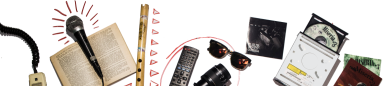
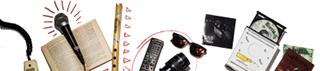
Add files via upload

diff --git a/phone/index.html b/phone/index.html
@@ -18,55 +18,48 @@ if(typeof Muse == "undefined") window.Muse = {}; window.Muse.assets = {"required
   <title>Radio Techotiba</title>
   <!-- CSS -->
   <link rel="stylesheet" type="text/css" href="../css/site_global.css?crc=444006867"/>
-  <link rel="stylesheet" type="text/css" href="css/index.css?crc=4049668825" id="pagesheet"/>
+  <link rel="stylesheet" type="text/css" href="css/master_a-p_g_-maestra.css?crc=90157828"/>
+  <link rel="stylesheet" type="text/css" href="css/index.css?crc=3774851372" id="pagesheet"/>
    </head>
  <body>
 
   <div class="clearfix borderbox" id="page"><!-- group -->
-   <div class="clearfix grpelem" id="ppu387"><!-- column -->
-    <div class="clearfix colelem" id="pu387"><!-- group -->
-     <div class="clip_frame grpelem" id="u387"><!-- image -->
-      <img class="block" id="u387_img" src="../images/face.png?crc=365759845" alt="" data-heightwidthratio="1" data-image-width="41" data-image-height="41"/>
-     </div>
-     <div class="clip_frame grpelem" id="u377"><!-- image -->
-      <img class="block" id="u377_img" src="../images/youtube.png?crc=477466959" alt="" data-heightwidthratio="1" data-image-width="41" data-image-height="41"/>
-     </div>
-     <div class="clip_frame grpelem" id="u397"><!-- image -->
-      <img class="block" id="u397_img" src="../images/instagram.png?crc=35227156" alt="" data-heightwidthratio="0.5540540540540541" data-image-width="74" data-image-height="41"/>
-     </div>
-    </div>
-    <div class="clip_frame colelem" id="u356"><!-- image -->
-     <img class="block" id="u356_img" src="../images/radiotecho%20repro.png?crc=183676934" alt="" data-heightwidthratio="0.68" data-image-width="325" data-image-height="221"/>
-    </div>
-    <div class="clearfix colelem" id="pu235"><!-- group -->
-     <a class="nonblock nontext clip_frame grpelem" id="u235" href="http://www.laboratoriodelruido.co"><!-- image --><img class="block" id="u235_img" src="../images/labmariposa.gif?crc=3921365099" alt="" data-heightwidthratio="0.61" data-image-width="100" data-image-height="61"/></a>
-     <div class="grpelem" id="u237"><!-- custom html -->
-      <audio autoplay="autoplay" controls="controls" id="audioAJDDHR" preload="auto">
+   <div class="clip_frame grpelem" id="u425"><!-- image -->
+    <img class="block" id="u425_img" src="../images/fondo%20movil-crop-u425.png?crc=194496998" alt="" data-heightwidthratio="1.76875" data-image-width="320" data-image-height="566"/>
+   </div>
+   <a class="nonblock nontext clip_frame grpelem" id="u235" href="http://www.laboratoriodelruido.co" target="_blank"><!-- image --><img class="block" id="u235_img" src="../images/labmariposa.gif?crc=3921365099" alt="" data-heightwidthratio="0.6056338028169014" data-image-width="142" data-image-height="86"/></a>
+   <div class="grpelem" id="u237"><!-- custom html -->
+    <audio autoplay="autoplay" controls="controls" id="audioAJDDHR" preload="auto">
 
                 <source src="https://estructuraweb.com.co:9204/live" type="audio/mpeg" />  Su navegador no soporta AUDIO.<br />
 
                 </audio>
 
-     </div>
-     <div class="grpelem" id="u407"><!-- custom html -->
-      <span class="cc_streaminfo" data-type="song" data-username="techotiba">Cargando ...</span>
+   </div>
+   <div class="clip_frame grpelem" id="u356"><!-- image -->
+    <img class="block" id="u356_img" src="../images/radiotecho%20repro.png?crc=108341387" alt="" data-heightwidthratio="0.6789667896678967" data-image-width="271" data-image-height="184"/>
+   </div>
+   <div class="clip_frame grpelem" id="u363"><!-- image -->
+    <img class="block" id="u363_img" src="../images/unaproduccion.png?crc=501905633" alt="" data-heightwidthratio="0.07386363636363637" data-image-width="176" data-image-height="13"/>
+   </div>
+   <div class="clip_frame grpelem" id="u370"><!-- image -->
+    <img class="block" id="u370_img" src="../images/piedepagina%20repro.png?crc=232441695" alt="" data-heightwidthratio="0.221875" data-image-width="320" data-image-height="71"/>
+   </div>
+   <div class="clip_frame grpelem" id="u377"><!-- image -->
+    <img class="block" id="u377_img" src="../images/youtube.png?crc=477466959" alt="" data-heightwidthratio="1" data-image-width="41" data-image-height="41"/>
+   </div>
+   <div class="clip_frame grpelem" id="u387"><!-- image -->
+    <img class="block" id="u387_img" src="../images/face.png?crc=365759845" alt="" data-heightwidthratio="1" data-image-width="41" data-image-height="41"/>
+   </div>
+   <div class="clip_frame grpelem" id="u397"><!-- image -->
+    <img class="block" id="u397_img" src="../images/instagram.png?crc=35227156" alt="" data-heightwidthratio="0.5540540540540541" data-image-width="74" data-image-height="41"/>
+   </div>
+   <div class="grpelem" id="u407"><!-- custom html -->
+    <span class="cc_streaminfo" data-type="song" data-username="techotiba">Cargando ...</span>
 <script language="javascript" type="text/javascript" src="https://estructuraweb.com.co:2199/system/streaminfo.js"></script>
 
-     </div>
-    </div>
-    <div class="clip_frame colelem" id="u363"><!-- image -->
-     <img class="block" id="u363_img" src="../images/unaproduccion.png?crc=501905633" alt="" data-heightwidthratio="0.07386363636363637" data-image-width="176" data-image-height="13"/>
-    </div>
    </div>
-   <div class="verticalspacer" data-offset-top="441" data-content-above-spacer="440" data-content-below-spacer="70" data-sizePolicy="fixed" data-pintopage="page_fixedLeft"></div>
-   <div class="clearfix grpelem" id="pu346"><!-- group -->
-    <div class="clip_frame grpelem" id="u346"><!-- image -->
-     <img class="block" id="u346_img" src="../images/fondo%20movil-crop-u346.png?crc=498264219" alt="" data-heightwidthratio="1.3412073490813647" data-image-width="381" data-image-height="511"/>
-    </div>
-    <div class="clip_frame grpelem" id="u370"><!-- image -->
-     <img class="block" id="u370_img" src="../images/piedepagina%20repro.png?crc=4186722188" alt="" data-heightwidthratio="0.22105263157894736" data-image-width="380" data-image-height="84"/>
-    </div>
-   </div>
+   <div class="verticalspacer" data-offset-top="565" data-content-above-spacer="566" data-content-below-spacer="70" data-sizePolicy="fixed" data-pintopage="page_fixedLeft"></div>
   </div>
   <!-- Other scripts -->
   <script type="text/javascript">

diff --git a/phone/css/index.css b/phone/css/index.css
@@ -1,1 +1,1 @@
-.version.index{color:#0000F1;background-color:#610AD9;}#page{z-index:1;min-height:499px;background-image:none;border-width:0px;border-color:#000000;background-color:transparent;padding-bottom:1px;width:100%;max-width:380px;}#ppu387{z-index:0;padding-bottom:0px;margin-right:-10000px;margin-top:14px;width:140%;margin-left:5.27%;}#pu387{z-index:15;width:50.76%;margin-left:7.34%;}#u387{z-index:15;background-color:transparent;position:relative;margin-right:-10000px;width:15.19%;}#u377{z-index:13;background-color:transparent;position:relative;margin-right:-10000px;width:15.19%;left:38.52%;}#u397{z-index:17;background-color:transparent;position:relative;margin-right:-10000px;width:27.41%;left:72.6%;}#u356{z-index:7;background-color:transparent;margin-top:17px;position:relative;width:61.1%;}#pu235{z-index:4;margin-top:8px;width:100%;}#u235{z-index:4;background-color:transparent;position:relative;margin-right:-10000px;margin-top:65px;width:18.8%;left:20.12%;}#u237{z-index:6;min-height:100px;border-width:0px;border-color:transparent;background-color:transparent;position:relative;margin-right:-10000px;width:100%;}#u407{z-index:19;min-height:27px;border-width:0px;border-color:transparent;background-color:transparent;position:relative;margin-right:-10000px;margin-top:42px;width:64.1%;}#u363{z-index:9;background-color:transparent;margin-top:2px;position:relative;width:33.09%;margin-left:12.97%;}.css_verticalspacer .verticalspacer{height:calc(100vh - 510px);}#pu346{z-index:2;margin-right:-10000px;margin-top:-441px;width:100.27%;margin-left:-0.27%;}#u346{z-index:2;background-color:transparent;position:relative;margin-right:-10000px;width:100%;}#u370{z-index:11;background-color:transparent;position:relative;margin-right:-10000px;margin-top:427px;width:99.74%;}#u387_img,#u377_img,#u397_img,#u356_img,#u235_img,#u363_img,#u346_img,#u370_img{width:100%;}#muse_css_mq,.html{background-color:#FFFFFF;}body{position:relative;min-width:320px;}.verticalspacer{min-height:1px;}
+.version.index{color:#0000E0;background-color:#FFA92C;}#page{z-index:1;min-height:380px;background-image:none;border-width:0px;border-color:#000000;background-color:transparent;padding-bottom:70px;width:100%;max-width:320px;}#u425{z-index:2;position:relative;margin-right:-10000px;width:100%;}#u235{z-index:4;background-color:transparent;position:relative;margin-right:-10000px;margin-top:362px;width:44.38%;left:26.57%;}#u237{z-index:6;min-height:100px;border-width:0px;border-color:transparent;background-color:transparent;position:relative;margin-right:-10000px;margin-top:273px;width:166.25%;left:6.25%;}#u356{z-index:7;background-color:transparent;position:relative;margin-right:-10000px;margin-top:72px;width:84.69%;left:6.25%;}#u363{z-index:9;background-color:transparent;position:relative;margin-right:-10000px;margin-top:456px;width:55.01%;left:20.94%;}#u370{z-index:11;background-color:transparent;position:relative;margin-right:-10000px;margin-top:494px;width:100%;}#u377{z-index:13;background-color:transparent;position:relative;margin-right:-10000px;margin-top:20px;width:12.82%;left:42.19%;}#u387{z-index:15;background-color:transparent;position:relative;margin-right:-10000px;margin-top:20px;width:12.82%;left:9.69%;}#u397{z-index:17;background-color:transparent;position:relative;margin-right:-10000px;margin-top:20px;width:23.13%;left:70.94%;}#u407{z-index:19;min-height:27px;border-width:0px;border-color:transparent;background-color:transparent;position:relative;margin-right:-10000px;margin-top:343px;width:106.57%;left:6.25%;}.css_verticalspacer .verticalspacer{height:calc(100vh - 636px);}#muse_css_mq,.html{background-color:#FFFFFF;}body{position:relative;min-width:320px;}#u235_img,#u356_img,#u363_img,#u370_img,#u377_img,#u387_img,#u397_img,#u425_img{width:100%;}

diff --git a/index.html b/index.html
@@ -30,7 +30,7 @@ if(typeof Muse == "undefined") window.Muse = {}; window.Muse.assets = {"required
   <div class="clearfix borderbox" id="page"><!-- group -->
    <div class="clearfix grpelem" id="pu306"><!-- group -->
     <div class="clip_frame grpelem" id="u306"><!-- image -->
-     <img class="block" id="u306_img" src="images/fondo%20repro-crop-u306.png?crc=4037270721" alt="" data-heightwidthratio="1.569182389937107" data-image-width="318" data-image-height="499"/>
+     <img class="block" id="u306_img" src="images/fondo%20repro-crop-u306.png?crc=4281291572" alt="" data-heightwidthratio="1.569182389937107" data-image-width="318" data-image-height="499"/>
     </div>
     <div class="grpelem" id="u151"><!-- custom html -->
      <audio autoplay="autoplay" controls="controls" id="audioAJDDHR" preload="auto">
@@ -41,7 +41,7 @@ if(typeof Muse == "undefined") window.Muse = {}; window.Muse.assets = {"required
 
     </div>
     <div class="clip_frame grpelem" id="u296"><!-- image -->
-     <img class="block" id="u296_img" src="images/piedepagina%20repro.png?crc=4186722188" alt="" data-heightwidthratio="0.22012578616352202" data-image-width="318" data-image-height="70"/>
+     <img class="block" id="u296_img" src="images/piedepagina%20repro.png?crc=232441695" alt="" data-heightwidthratio="0.22327044025157233" data-image-width="318" data-image-height="71"/>
     </div>
     <div class="clip_frame grpelem" id="u316"><!-- image -->
      <img class="block" id="u316_img" src="images/unaproduccion.png?crc=501905633" alt="" data-heightwidthratio="0.06878306878306878" data-image-width="189" data-image-height="13"/>
@@ -50,14 +50,14 @@ if(typeof Muse == "undefined") window.Muse = {}; window.Muse.assets = {"required
      <img class="block" id="u326_img" src="images/logo%20lab.png?crc=4177388537" alt="" data-heightwidthratio="0.5777777777777777" data-image-width="90" data-image-height="52"/>
     </div>
     <div class="grpelem" id="u411"><!-- custom html -->
-     <span class="cc_streaminfo" data-type="song" data-username="techotiba">Cargando ...</span>
+     <span class="cc_streaminfo" data-type="song" data-username="techotiba">Radio Techotiba AL AIRE</span>
 <script language="javascript" type="text/javascript" src="https://estructuraweb.com.co:2199/system/streaminfo.js"></script>
     </div>
     <div class="grpelem" id="u415"><!-- simple frame --></div>
    </div>
    <div id="u286-wrapper">
     <div class="clip_frame" id="u286"><!-- image -->
-     <img class="block" id="u286_img" src="images/radiotecho%20repro.png?crc=183676934" alt="" data-heightwidthratio="0.6805555555555556" data-image-width="288" data-image-height="196"/>
+     <img class="block" id="u286_img" src="images/radiotecho%20repro.png?crc=108341387" alt="" data-heightwidthratio="0.6805555555555556" data-image-width="288" data-image-height="196"/>
     </div>
    </div>
   </div>

diff --git a/phone/css/master_a-p_g_-maestra.css b/phone/css/master_a-p_g_-maestra.css
@@ -1,0 +1,1 @@
+#u425{background-color:transparent;}
